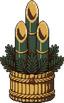
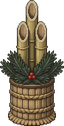
wishlist v2 首波 15 件定稿：kadomatsu/wall_kumiko 重生版＋manifest sHT 實測回填
（15 件主體已隨重生 root 入庫；本 commit 補事故後完成的重生圖與 manifest 定稿。
codex 三 sheet 逐件審＋總審通過：kadomatsu 重生2次壓飽和、wall_kumiko 重生1次改對稱麻の葉紋。
catalog 現 67 件。）

diff --git a/src/data/cafe.gen.ts b/src/data/cafe.gen.ts
@@ -199,7 +199,7 @@ export const CAFE_ITEMS: CafeItem[] = [
   { id: 'glass_hanging_rack', z: 'furniture', w: 2, h: 1, surface: false, spriteHeightTiles: 1.19, name: '高腳杯吊掛架', sprite: '/cafe/catalog/glass_hanging_rack.png', price: 95, lv: 3, starter: false },
   { id: 'pourover_stand', z: 'furniture', w: 1, h: 1, surface: false, spriteHeightTiles: 1.47, name: '手沖濾杯架', sprite: '/cafe/catalog/pourover_stand.png', price: 75, lv: 3, starter: false },
   { id: 'vintage_fridge', z: 'furniture', w: 1, h: 1, surface: false, spriteHeightTiles: 1.92, name: '復古電冰箱', sprite: '/cafe/catalog/vintage_fridge.png', price: 110, lv: 5, starter: false },
-  { id: 'kadomatsu', z: 'furniture', w: 1, h: 1, surface: false, spriteHeightTiles: 1.72, name: '正月門松', sprite: '/cafe/catalog/kadomatsu.png', price: 60, lv: 2, starter: false },
+  { id: 'kadomatsu', z: 'furniture', w: 1, h: 1, surface: false, spriteHeightTiles: 1.97, name: '正月門松', sprite: '/cafe/catalog/kadomatsu.png', price: 60, lv: 2, starter: false },
   { id: 'napolitan_spaghetti', z: 'surface', w: 1, h: 1, surface: false, spriteHeightTiles: 0.69, name: '拿坡里義大利麵', sprite: '/cafe/catalog/napolitan_spaghetti.png', price: 29, lv: 2, starter: false },
   { id: 'thick_omelette_sandwich', z: 'surface', w: 1, h: 1, surface: false, spriteHeightTiles: 0.8, name: '厚蛋三明治', sprite: '/cafe/catalog/thick_omelette_sandwich.png', price: 27, lv: 1, starter: false },
   { id: 'hot_cake', z: 'surface', w: 1, h: 1, surface: false, spriteHeightTiles: 0.88, name: '熱蛋糕鬆餅', sprite: '/cafe/catalog/hot_cake.png', price: 29, lv: 2, starter: false },
